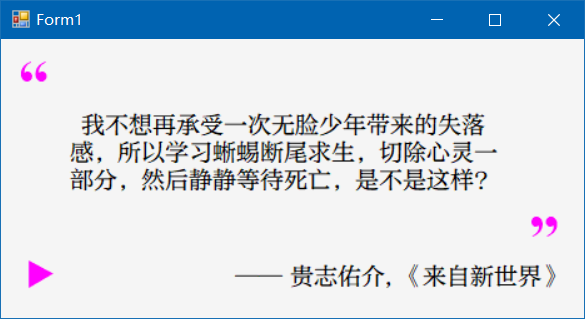
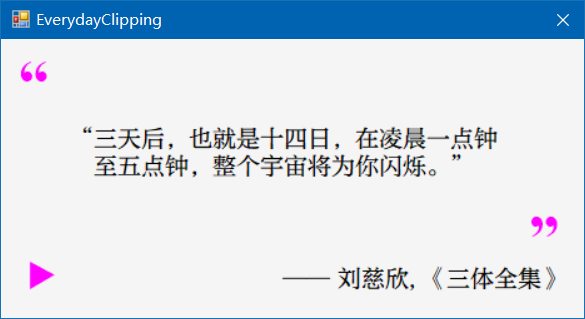
Improve GUI

diff --git a/EverydayClipping/Form1.Designer.cs b/EverydayClipping/Form1.Designer.cs
@@ -76,7 +76,7 @@ namespace EverydayClipping {
             this.linkLabel4.Font = new System.Drawing.Font("方正屏显雅宋_GBK", 13.8F, System.Drawing.FontStyle.Regular, System.Drawing.GraphicsUnit.Point, ((byte)(134)));
             this.linkLabel4.ImageAlign = System.Drawing.ContentAlignment.MiddleRight;
             this.linkLabel4.LinkArea = new System.Windows.Forms.LinkArea(0, 0);
-            this.linkLabel4.Location = new System.Drawing.Point(12, 203);
+            this.linkLabel4.Location = new System.Drawing.Point(12, 205);
             this.linkLabel4.Name = "linkLabel4";
             this.linkLabel4.Size = new System.Drawing.Size(597, 61);
             this.linkLabel4.TabIndex = 3;
@@ -92,9 +92,9 @@ namespace EverydayClipping {
             this.linkLabel5.Font = new System.Drawing.Font("Microsoft Sans Serif", 25.8F, System.Drawing.FontStyle.Regular, System.Drawing.GraphicsUnit.Point, ((byte)(0)));
             this.linkLabel5.ForeColor = System.Drawing.Color.Fuchsia;
             this.linkLabel5.LinkArea = new System.Windows.Forms.LinkArea(0, 0);
-            this.linkLabel5.Location = new System.Drawing.Point(17, 206);
+            this.linkLabel5.Location = new System.Drawing.Point(18, 207);
             this.linkLabel5.Name = "linkLabel5";
-            this.linkLabel5.Size = new System.Drawing.Size(55, 52);
+            this.linkLabel5.Size = new System.Drawing.Size(53, 51);
             this.linkLabel5.TabIndex = 4;
             this.linkLabel5.Text = "▶";
             this.linkLabel5.TextAlign = System.Drawing.ContentAlignment.MiddleCenter;
@@ -108,13 +108,15 @@ namespace EverydayClipping {
             this.AutoScaleMode = System.Windows.Forms.AutoScaleMode.Font;
             this.BackColor = System.Drawing.Color.WhiteSmoke;
             this.ClientSize = new System.Drawing.Size(621, 274);
-            this.Controls.Add(this.linkLabel5);
             this.Controls.Add(this.linkLabel1);
+            this.Controls.Add(this.linkLabel5);
             this.Controls.Add(this.linkLabel4);
             this.Controls.Add(this.linkLabel3);
             this.Controls.Add(this.linkLabel2);
+            this.MaximizeBox = false;
+            this.MinimizeBox = false;
             this.Name = "Form1";
-            this.Text = "Form1";
+            this.Text = "EverydayClipping";
             this.TopMost = true;
             this.Load += new System.EventHandler(this.Form1_Load);
             this.ResumeLayout(false);
